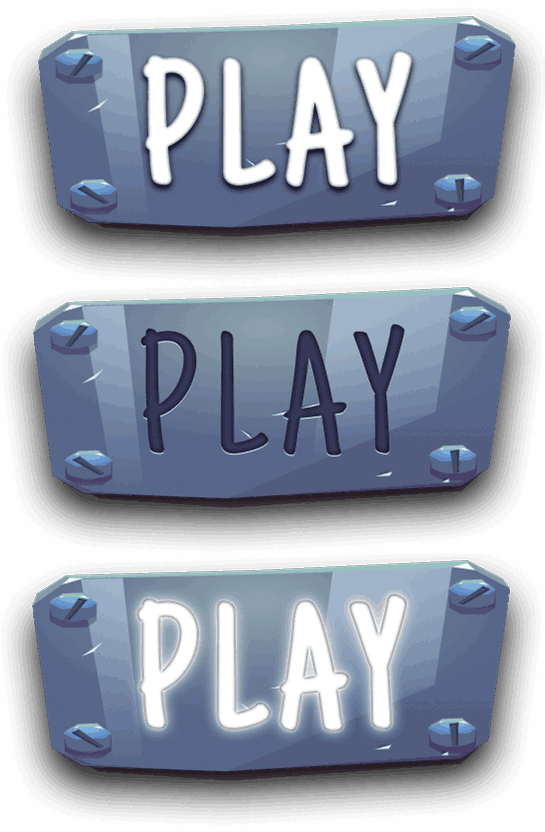
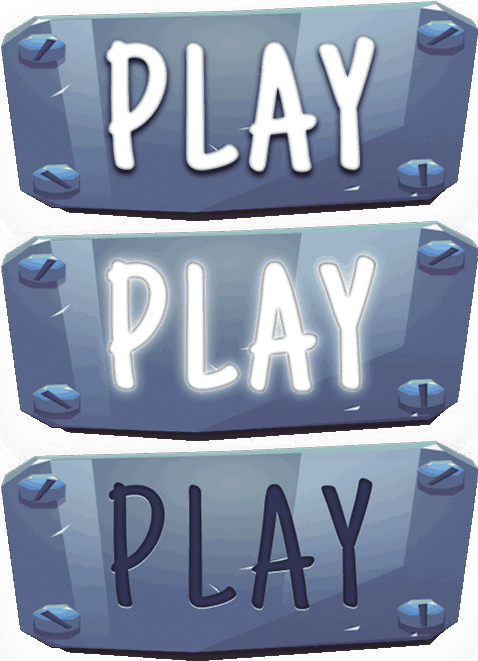
new main menu buttons

diff --git a/Game/Source/UIModule.cpp b/Game/Source/UIModule.cpp
@@ -71,17 +71,23 @@ bool UIModule::Start()
 
 	textureA = app->tex->Load("Assets/UI/UI_Spritesheet_FINAL.png");
 	playButtonTexture = app->tex->Load("Assets/UI/playButton.png");
+	optionsButtonTexture = app->tex->Load("Assets/UI/optionsButton.png");
+	creditsButtonTexture = app->tex->Load("Assets/UI/creditsButton.png");
+	quitButtonTexture = app->tex->Load("Assets/UI/quitButton.png");
+	newgameButtonsTexture = app->tex->Load("Assets/UI/newgameButtons.png");
+	continueButtonsTexture = app->tex->Load("Assets/UI/continueButtons.png");
+	returnButtonTexture = app->tex->Load("Assets/UI/returnButton.png");
 
 	sliderTest = (GuiSlider*)app->guiManager->CreateGuiControl(GuiControlType::SLIDER, 1234, textureA, "", { 100, 100, 100, 100 }, this);
 	sliderTest->state = GuiControlState::NORMAL;
 
-	mainmenu_play_button =		   (GuiButton*)app->guiManager->CreateGuiControl(GuiControlType::BUTTON, 1, playButtonTexture, "Play", { 720, 400, 545, 277 }, this);
-	mainmenu_options_button =	   (GuiButton*)app->guiManager->CreateGuiControl(GuiControlType::BUTTON, 2, textureA,"Options", { 920, 640, 120,30 }, this);
-	mainmenu_credits_button =	   (GuiButton*)app->guiManager->CreateGuiControl(GuiControlType::BUTTON, 3, textureA,"Credits", { 920, 680, 120,30 }, this);
-	mainmenu_quit_button =		   (GuiButton*)app->guiManager->CreateGuiControl(GuiControlType::BUTTON, 4, textureA,"Quit", { 920, 720, 120, 30 }, this);
-	mainmenu_newGame_button =	   (GuiButton*)app->guiManager->CreateGuiControl(GuiControlType::BUTTON, 5, textureA,"New Game", { 920, 640, 120,30 }, this);
-	mainmenu_continueGame_button = (GuiButton*)app->guiManager->CreateGuiControl(GuiControlType::BUTTON, 6, textureA, "Continue", { 920, 680, 120,30 }, this);
-	mainmenu_return_button =	   (GuiButton*)app->guiManager->CreateGuiControl(GuiControlType::BUTTON, 7, textureA,"Return", { 920, 925, 120,30 }, this);
+	mainmenu_play_button =		   (GuiButton*)app->guiManager->CreateGuiControl(GuiControlType::BUTTON, 1, playButtonTexture, "", { 720, 400, 478, 220 }, this);
+	mainmenu_options_button =	   (GuiButton*)app->guiManager->CreateGuiControl(GuiControlType::BUTTON, 2, optionsButtonTexture,"", { 690, 640, 540, 136 }, this);
+	mainmenu_credits_button =	   (GuiButton*)app->guiManager->CreateGuiControl(GuiControlType::BUTTON, 3, creditsButtonTexture,"", { 800, 800, 302,87 }, this);
+	mainmenu_quit_button =		   (GuiButton*)app->guiManager->CreateGuiControl(GuiControlType::BUTTON, 4, quitButtonTexture,"", { 860, 900, 195, 90 }, this);
+	mainmenu_newGame_button =	   (GuiButton*)app->guiManager->CreateGuiControl(GuiControlType::BUTTON, 5, newgameButtonsTexture,"", { 800, 640, 340, 89 }, this);
+	mainmenu_continueGame_button = (GuiButton*)app->guiManager->CreateGuiControl(GuiControlType::BUTTON, 6, continueButtonsTexture, "", { 800, 740, 340, 89 }, this);
+	mainmenu_return_button =	   (GuiButton*)app->guiManager->CreateGuiControl(GuiControlType::BUTTON, 7, returnButtonTexture,"", { 800, 925, 340,89 }, this);
 
 	pausemenu_resume_button =	  (GuiButton*)app->guiManager->CreateGuiControl(GuiControlType::BUTTON, 20, textureA, "Resume", { 1620, 80, 120,30 }, this);
 	pausemenu_inventory_button =  (GuiButton*)app->guiManager->CreateGuiControl(GuiControlType::BUTTON, 21, textureA, "Inventory", { 1620, 115, 120,30 }, this);

diff --git a/Game/Source/GuiButton.cpp b/Game/Source/GuiButton.cpp
@@ -82,19 +82,19 @@ bool GuiButton::Draw(Render* render)
 	case GuiControlState::NORMAL:
 		//render->DrawRectangle(bounds, 128, 64, 0, 255, true, false);
 		render->DrawTexture(tex, bounds.x - app->render->camera.x, bounds.y - app->render->camera.y, &rect);
-		render->DrawTexture(app->guiManager->buttonNormalTexture, bounds.x - app->render->camera.x, bounds.y - app->render->camera.y, NULL);
+		//render->DrawTexture(app->guiManager->buttonNormalTexture, bounds.x - app->render->camera.x, bounds.y - app->render->camera.y, NULL);
 		break;
 	case GuiControlState::FOCUSED:
 		//render->DrawRectangle(bounds, 244, 168, 92, 255, true, false);
 		rect.y = bounds.h;
 		render->DrawTexture(tex, bounds.x - app->render->camera.x, bounds.y - app->render->camera.y, &rect);
-		render->DrawTexture(app->guiManager->buttonHoverTexture, bounds.x - app->render->camera.x, bounds.y - app->render->camera.y, NULL);
+		//render->DrawTexture(app->guiManager->buttonHoverTexture, bounds.x - app->render->camera.x, bounds.y - app->render->camera.y, NULL);
 		break;
 	case GuiControlState::PRESSED:
 		rect.y = bounds.h * 2;
 		//render->DrawRectangle(bounds, 52, 26, 0, 255, true, false);
 		render->DrawTexture(tex, -app->render->camera.x + bounds.x, -app->render->camera.y + bounds.y, &rect);
-		render->DrawTexture(app->guiManager->buttonPressedTexture, bounds.x - app->render->camera.x, bounds.y - app->render->camera.y, NULL);
+		//render->DrawTexture(app->guiManager->buttonPressedTexture, bounds.x - app->render->camera.x, bounds.y - app->render->camera.y, NULL);
 		break;
 	}
 

diff --git a/Game/Source/UIModule.h b/Game/Source/UIModule.h
@@ -186,6 +186,12 @@ public:
 
 	SDL_Texture* textureA;
 	SDL_Texture* playButtonTexture;
+	SDL_Texture* optionsButtonTexture;
+	SDL_Texture* creditsButtonTexture;
+	SDL_Texture* quitButtonTexture;
+	SDL_Texture* newgameButtonsTexture;
+	SDL_Texture* continueButtonsTexture;
+	SDL_Texture* returnButtonTexture;
 
 	bool timmyItem;
 	bool bunnyItem;
